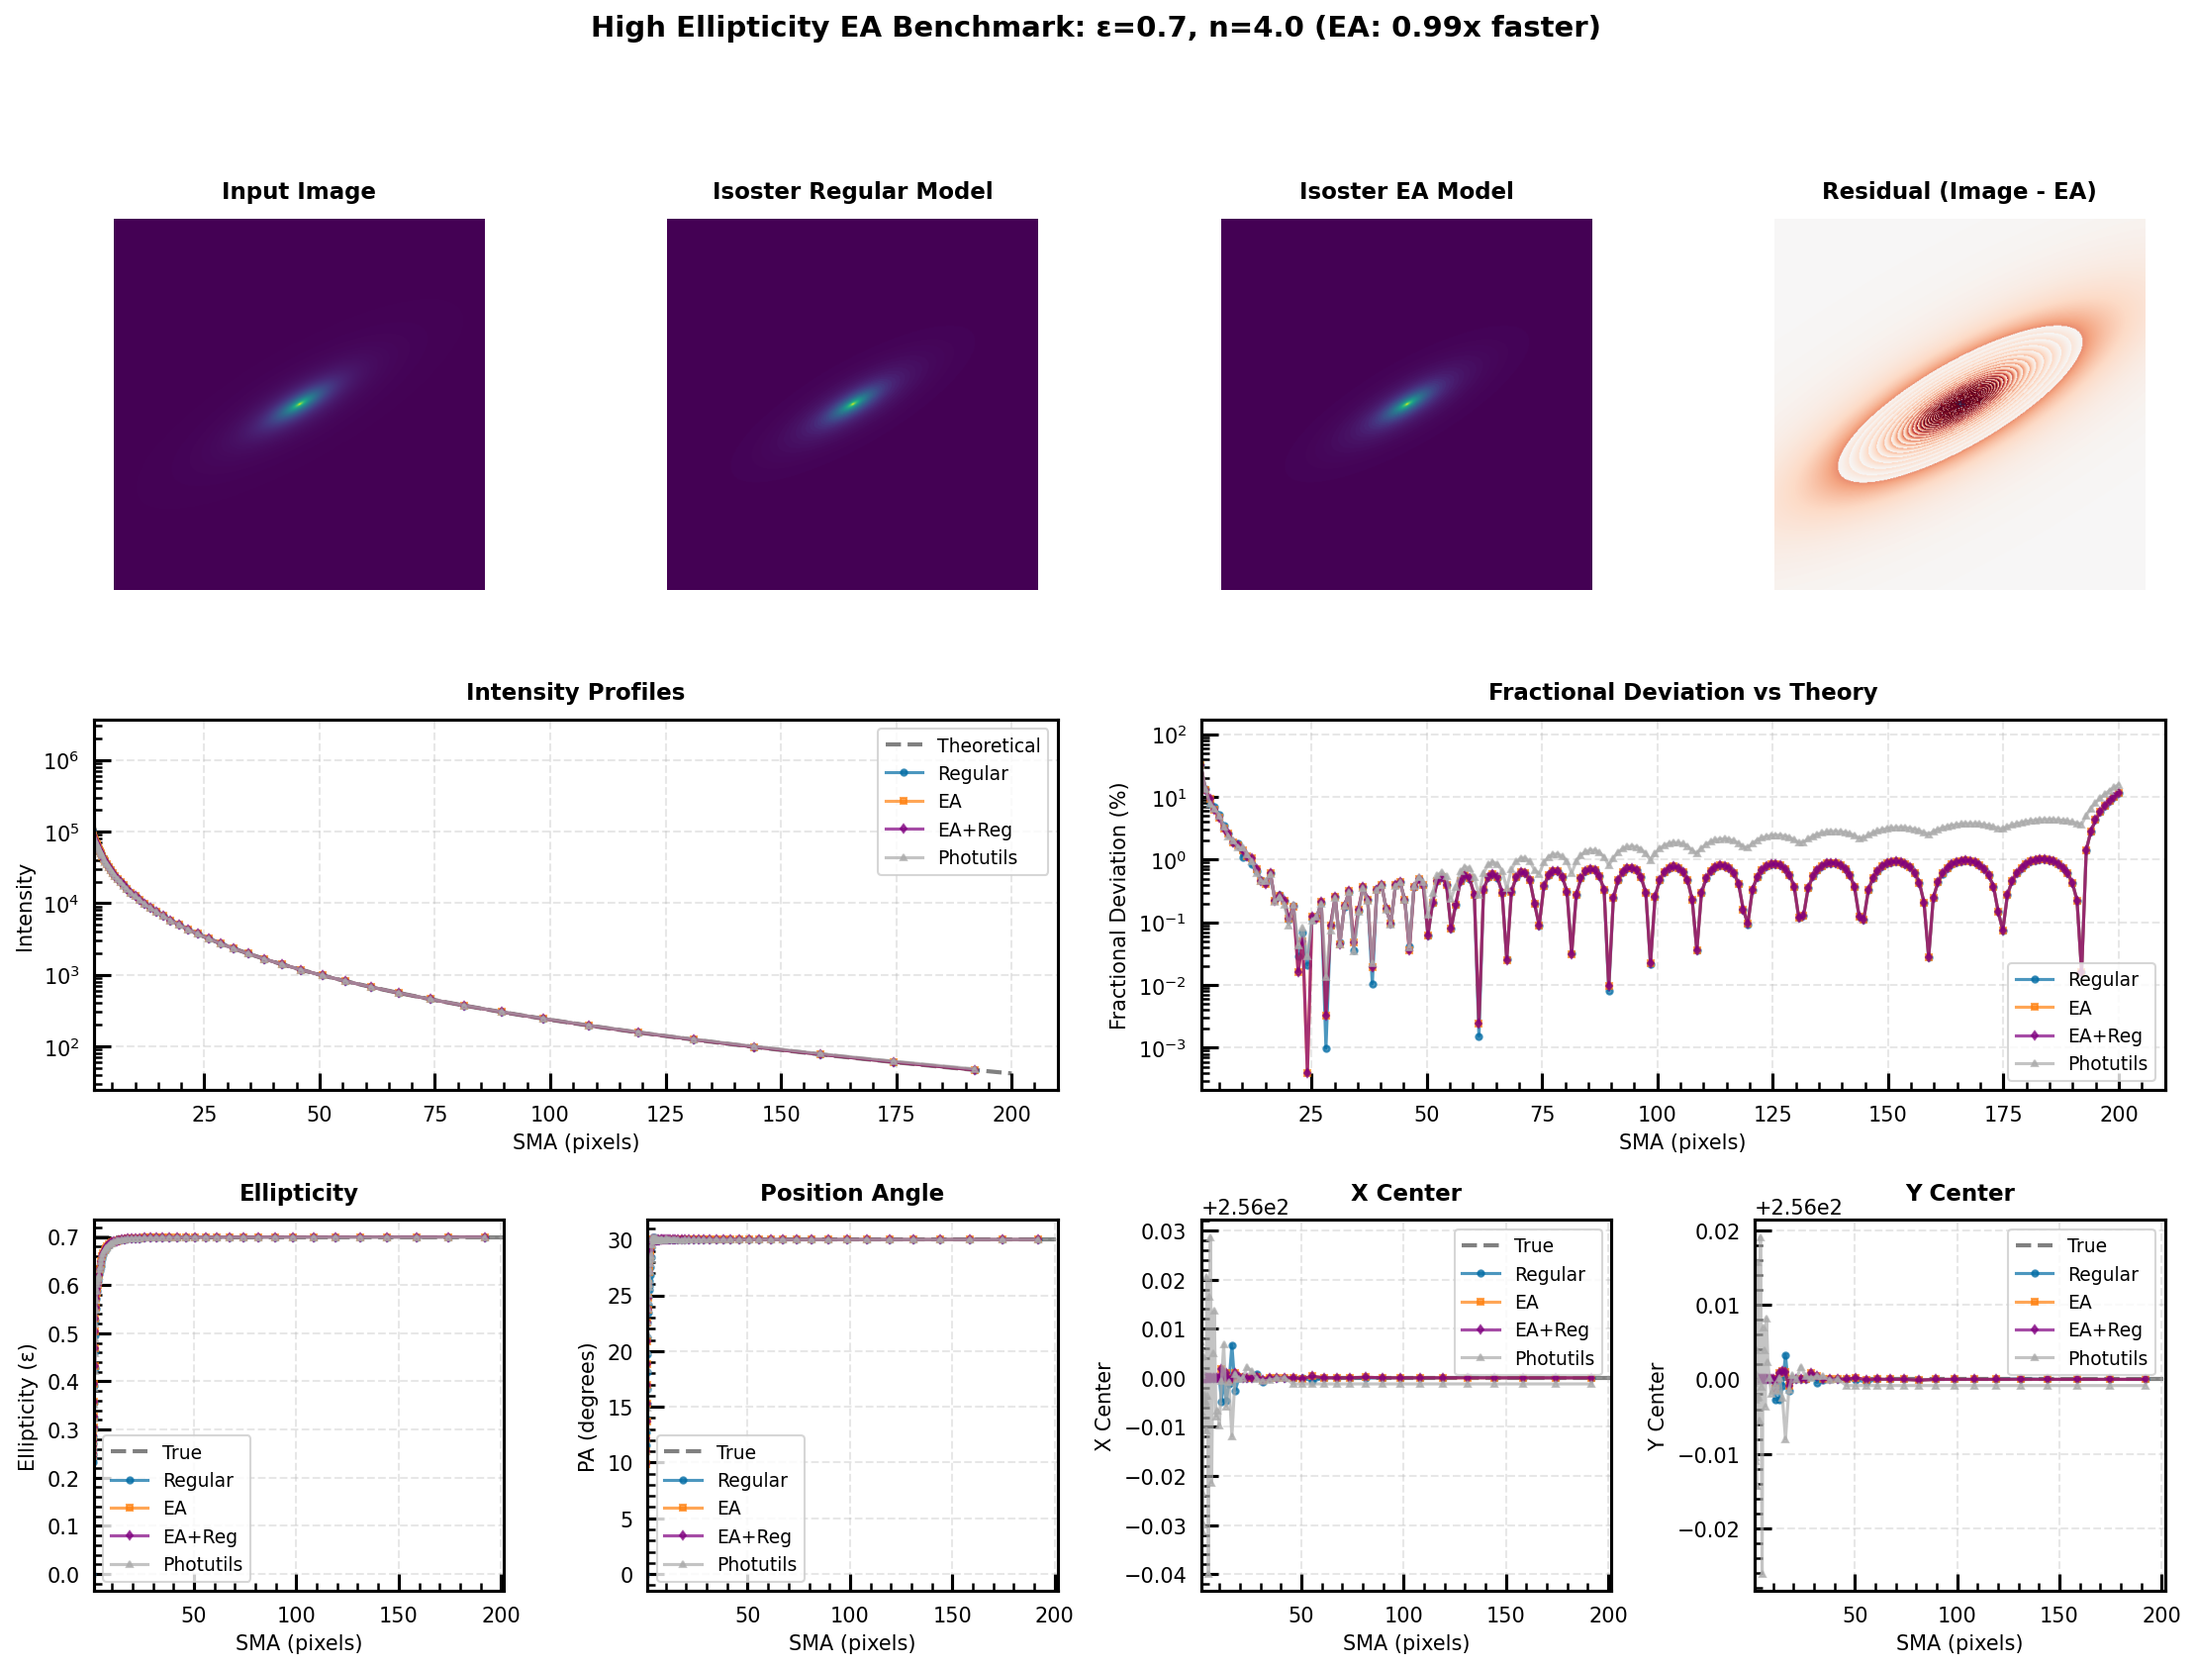
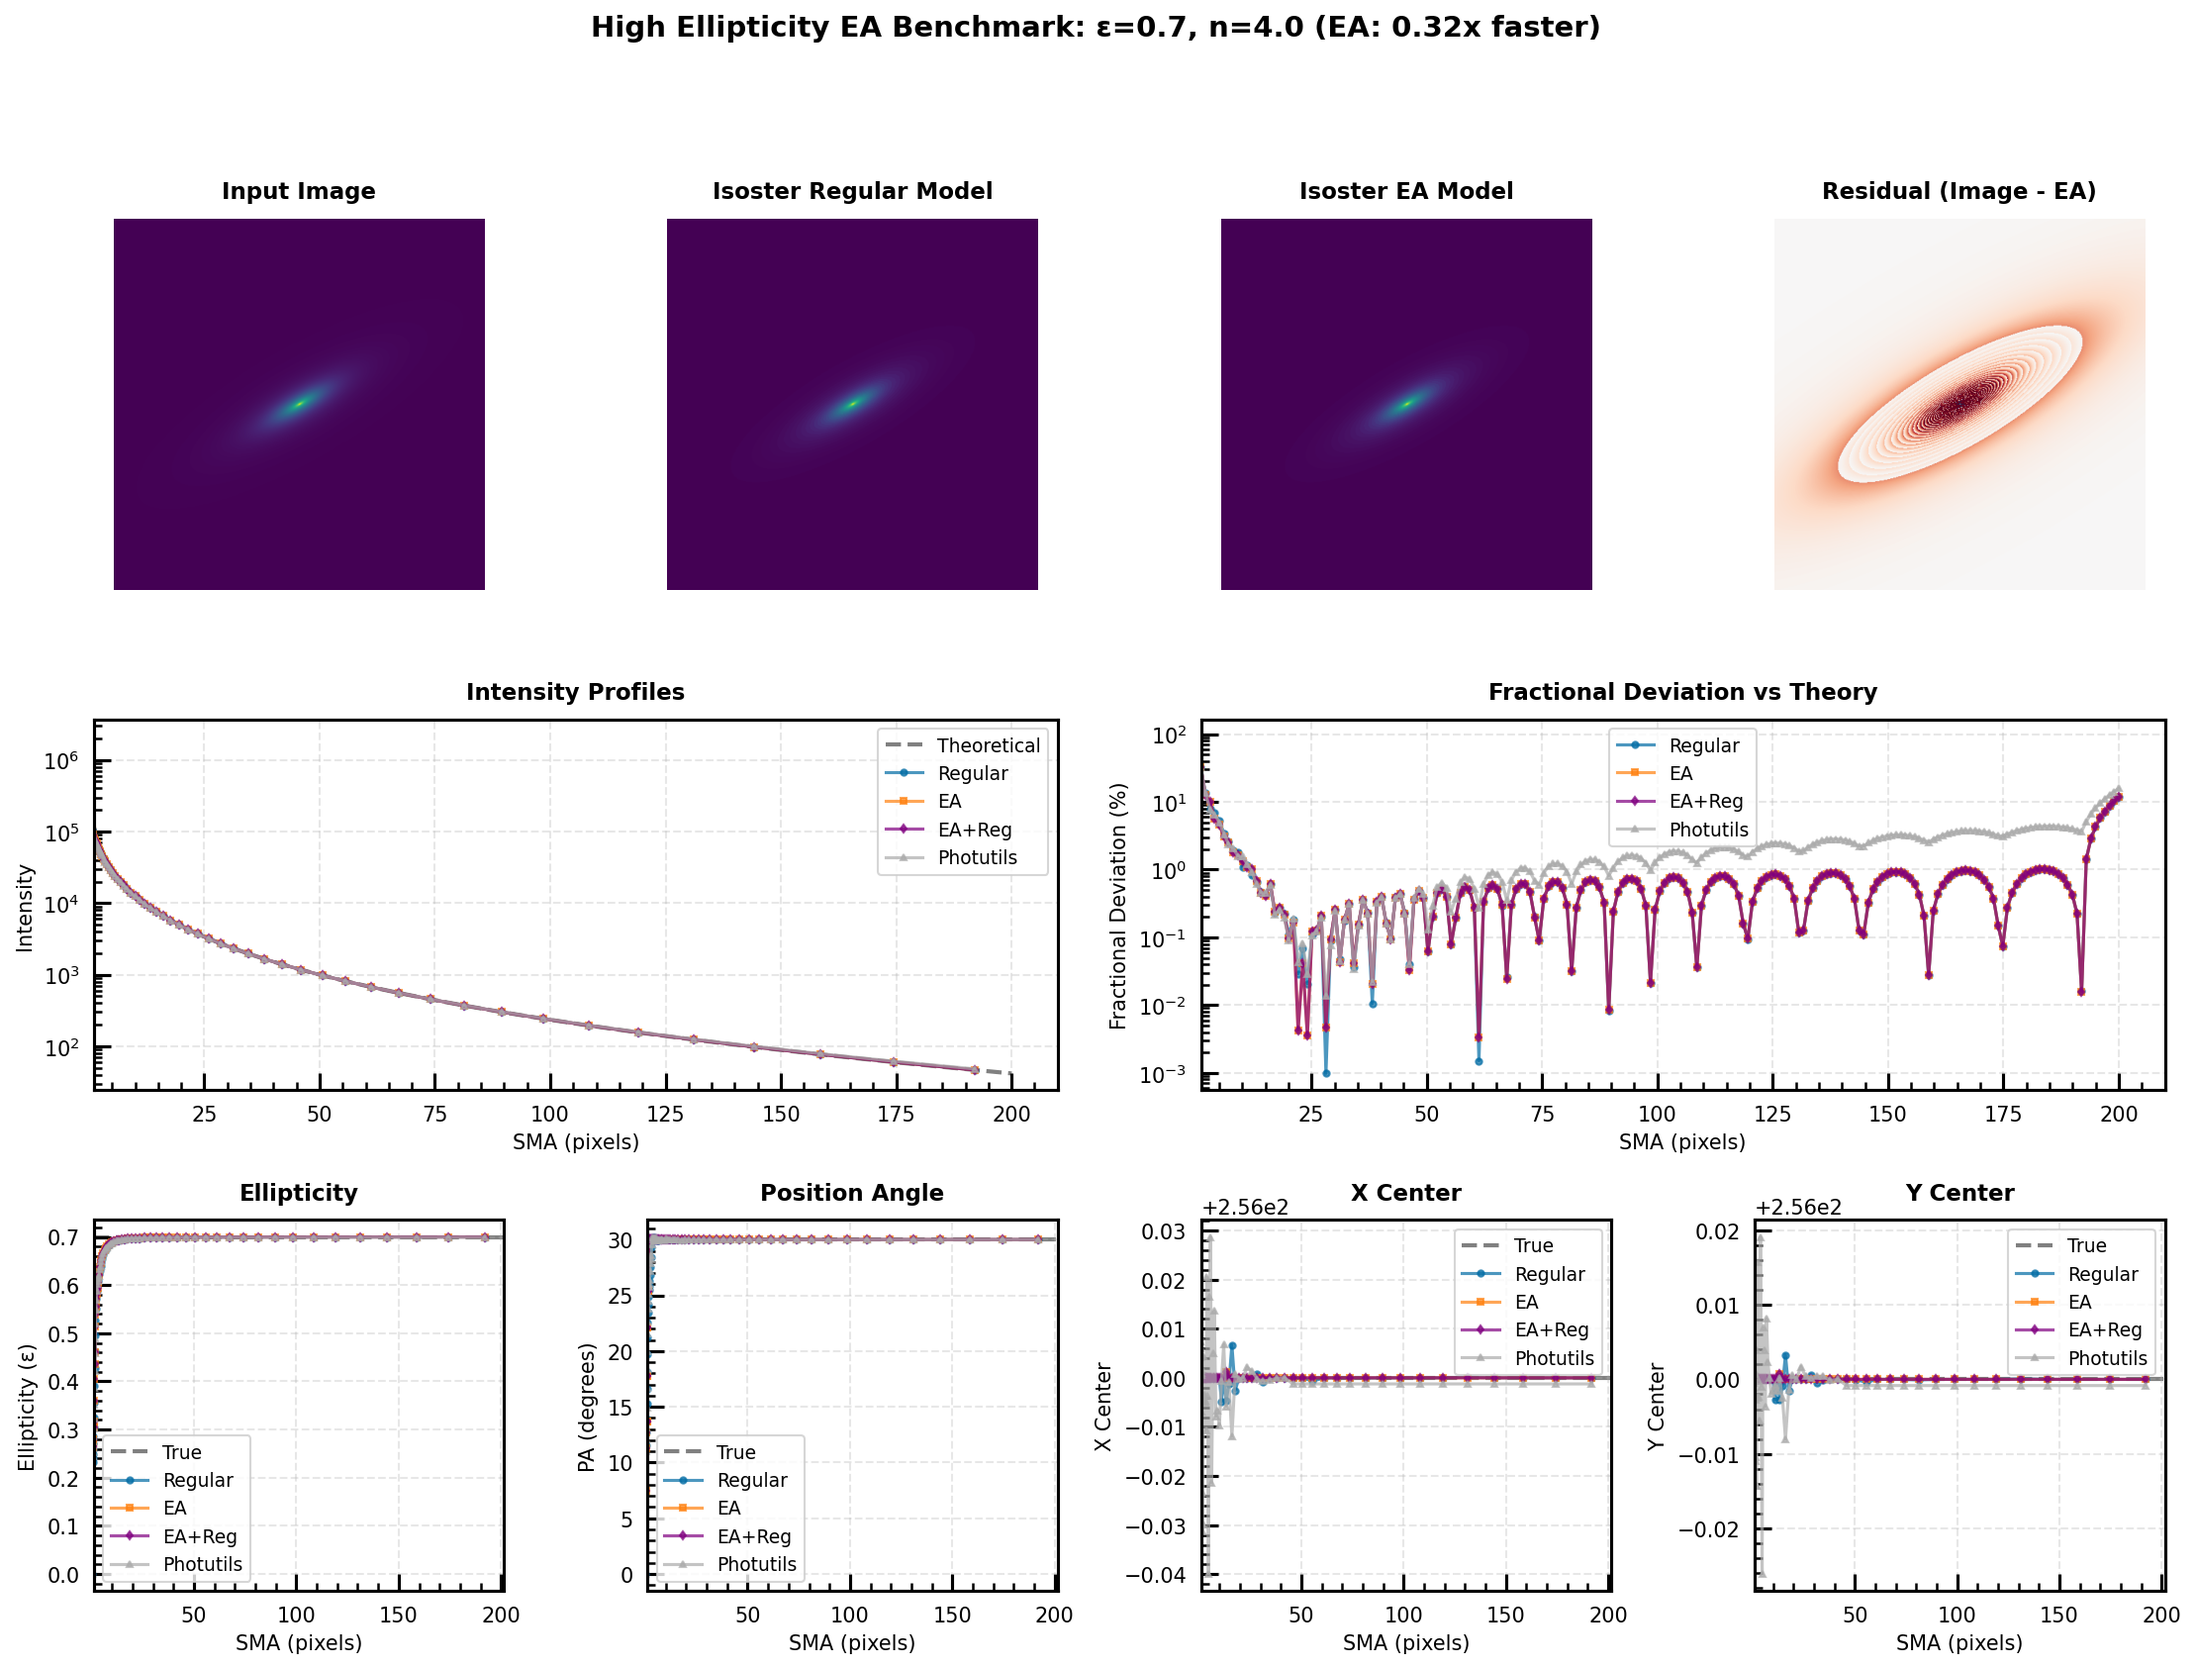
Complete EA benchmarks with corrected psi-space harmonic fitting and updated guide

Changed region(s): [[0.5286, 0.432, 0.995, 0.6481]]

diff --git a/docs/guide.md b/docs/guide.md
@@ -96,3 +96,70 @@ model = isoster.build_ellipse_model(image.shape, results['isophotes'])
 *   **Convergence Issues**: Try increasing `maxit` or adjusting `sma0` to a region with higher signal-to-noise.
 *   **Performance**: Ensure you are not running `full_photometry` unless needed, as it adds computation time.
 *   **Validation Errors**: Pydantic will tell you exactly which field is invalid. Check your parameter types and ranges.
+
+## 4. Eccentric Anomaly Sampling
+
+For galaxies with **high ellipticity** (ε > 0.3), the standard polar angle sampling can lead to biased fits due to uneven sampling along the ellipse. ISOSTER implements the **Eccentric Anomaly (EA) method** from Ciambur (2015, ApJ 810 120) to address this.
+
+### What is Eccentric Anomaly?
+
+- **Standard method**: Sample uniformly in φ (position angle) → points cluster near major axis
+- **EA method**: Sample uniformly in ψ (eccentric anomaly) → uniform arc-length coverage
+- **Key**: Fit harmonics in ψ space: I(ψ) = Ī + A₁sin(ψ) + B₁cos(ψ) + ...
+
+### When to Use EA
+
+✓ **Recommended for:**
+- Ellipticity ε > 0.3
+- Edge-on or highly inclined galaxies
+- Precise geometry fitting in high-ε regimes
+
+✗ **Not needed for:**
+- Nearly circular galaxies (ε < 0.2)
+- Fixed geometry fitting
+- Low S/N data (regularization more important)
+
+### Usage
+
+```python
+from isoster.config import IsosterConfig
+from isoster.optimize import fit_image
+
+# Enable Eccentric Anomaly sampling
+config = IsosterConfig(
+    sma0=10.0,
+    maxsma=200.0,
+    use_eccentric_anomaly=True,  # Enable EA method
+    # Free geometry to benefit from EA
+    fix_center=False,
+    fix_pa=False,
+    fix_eps=False
+)
+
+results = fit_image(image, config=config)
+```
+
+### Performance Notes
+
+- **Overhead**: ~50-60% slower than regular sampling (due to ψ→φ conversion overhead)
+- **Benefit**: More accurate geometry fitting for high-ε galaxies
+- **Trade-off**: Speed vs accuracy - use when geometry accuracy is critical
+
+### Combining with Central Regularization
+
+For optimal results on high-ellipticity galaxies with noisy centers:
+
+```python
+config = IsosterConfig(
+    use_eccentric_anomaly=True,
+    # Add moderate central regularization
+    use_central_regularization=True,
+    central_reg_sma_threshold=3.0,
+    central_reg_strength=1.0,
+    central_reg_weights={'eps': 1.5, 'pa': 1.0, 'center': 1.0}
+)
+```
+
+## 5. Central Region Geometry Regularization
+
+(Section continues from previous...)
